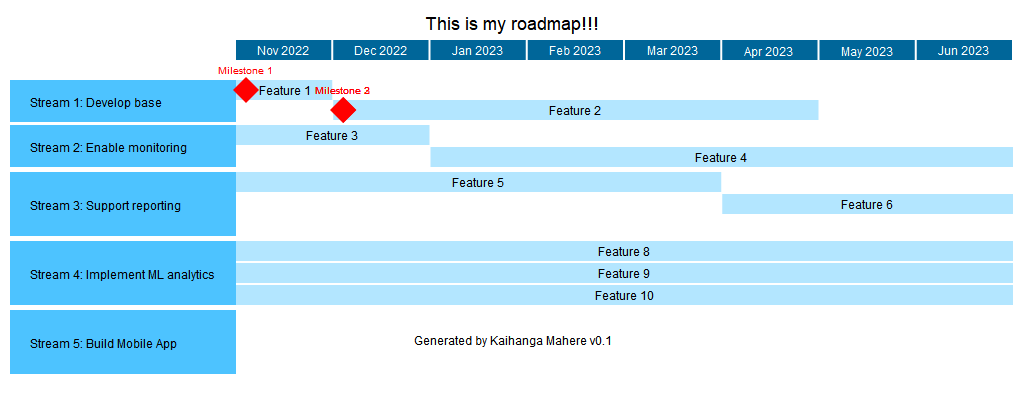
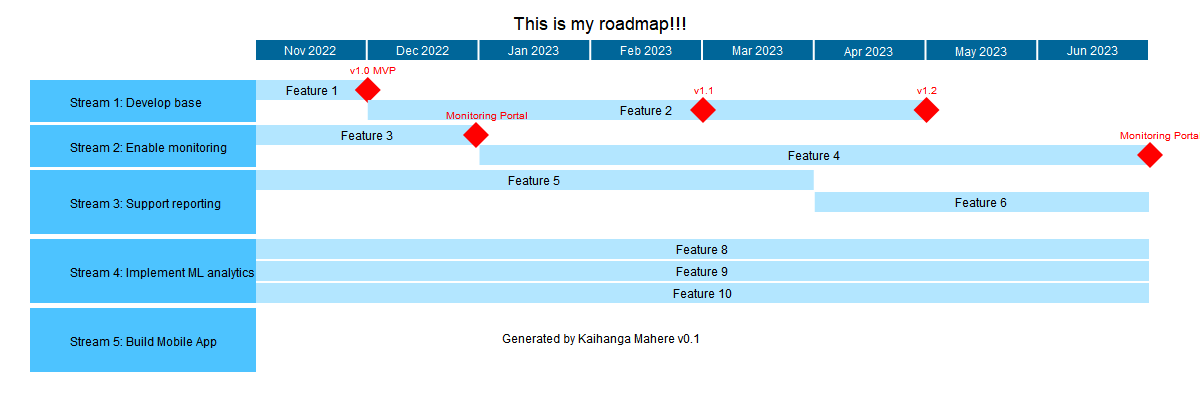
Fixed milestone horizontal position issue

diff --git a/kaihanga.py b/kaihanga.py
@@ -13,35 +13,12 @@
 # You should have received a copy of the GNU General Public License along with
 # this program.  If not, see <http://www.gnu.org/licenses/>.
 
-""" To do
-        * Show milestones
-        * Proporsion task bar according to the start and end date
-        * Display current date marker
-        * Allow task text to wrap around multiple lines, hence auto enlarge the task bar height
-        * Auto expand surface canvas size if the task bar is too long
-        * Implement logging
-        * Implement class methods to allow user to milestone
-        * Custom timeline start date
-        * Support multiple tasks on the same line/lane
-
-
-        Done * Implement class methods to allow user to add task & group.
-        Done * Make timeline 'colour' element optional
-        Done * Make group 'colour' element optional
-        Done * Make timeline 'colour' element optional
-        Done * Option to turn off footer
-        Done * Modularise method lines
-        Done * Display task text on top of bar
-        Done * Display group text as a block
-        Done * Week, Quarter, Half Year, Year timeline mode support
-        Done * Save as PDF
-"""
-
 from datetime import datetime
 from dateutil.relativedelta import relativedelta
 from painter import Painter
 from print_dict import pd
 import json
+import calendar
 from roadmapdict import RoadMapDict
 
 
@@ -263,7 +240,7 @@ class Mahere:
             self.__width
             - max_group_text_width
             - (self.__HSPACER * self.timeline_item)
-            - 40
+            - 100
         )
 
         timeline_y_pos = 40
@@ -277,7 +254,7 @@ class Mahere:
                 (x * timeline_item_width)
                 + max_group_text_width
                 + (self.__HSPACER * x)
-                + 30
+                + 50
             )
 
             # Draw timeline box
@@ -382,13 +359,14 @@ class Mahere:
         group_height = 0
 
         next_group_y_pos = 0
-        group_x_pos = 10
+        group_x_pos = 30
         group_y_pos = 0
         i = 0
         for group_item in task_data.keys():
 
             self.__painter.set_font(self.text_font, 12, self.timeline_text_colour)
 
+            ## Determine group y (vertical) position
             if next_group_y_pos == 0:
                 group_y_pos = group_y_start_pos
             else:
@@ -399,16 +377,17 @@ class Mahere:
             )
             next_group_y_pos = group_y_pos
 
-            ###(4) Set Task
+            ## Set Task
             task_y_pos = group_y_pos
             next_group_y_pos = task_y_pos
 
             j = 0
             for task in self.__roadmap_input[group_item].get("tasks"):
                 task_text = task
-                text_width, text_height = self.__painter.get_text_dimension(task_text)
-                y_pos = task_y_pos + text_height * j + (self.__VSPACER * j)
-                next_group_y_pos = y_pos
+                ## Determine task y (vertical) position
+                _, text_height = self.__painter.get_text_dimension(task_text)
+                next_task_y_pos = task_y_pos + text_height * j + (self.__VSPACER * j)
+                next_group_y_pos = next_task_y_pos
                 text_height = 20
 
                 # Draw task bar
@@ -443,7 +422,7 @@ class Mahere:
                         row_match += 1
 
                 if row_match > 0:
-                    task_box_y_pos = y_pos
+                    task_box_y_pos = next_task_y_pos
                     task_box_height = text_height
                     total_bar_width = task_box_width * row_match + (
                         self.__HSPACER * row_match - 1
@@ -483,6 +462,8 @@ class Mahere:
                     self.__painter.draw_text(text_x_pos, text_y_pos, f"{task_text}")
 
                 # Loop one more time to draw milestones
+                bar_start_x_pos = 0
+                total_bar_width = 0
                 milestones = self.__get_milestones(group_item, task)
 
                 for timeline_index in range(self.timeline_item):
@@ -500,19 +481,42 @@ class Mahere:
                         ) = self.__roadmap_dict.get_timeline_item_coordinates(
                             timeline_index
                         )
-                        if bar_start_x_pos == 0:
-                            bar_start_x_pos = task_box_x_pos
+                        # if bar_start_x_pos == 0:
+                        bar_start_x_pos = task_box_x_pos
 
                         ## Milestone loop
                         for milestone_text in milestones:
                             milestone_date = milestones[milestone_text].get("date")
+                            # Determine timeline item x position
+                            (
+                                _,
+                                _,
+                                timeline_item_width,
+                                _,
+                            ) = self.__roadmap_dict.get_timeline_item_coordinates(
+                                timeline_index
+                            )
                             if self.timeline_mode == self.MONTHLY:
+                                print(
+                                    f"{task_text}-{milestone_text} :{milestone_date.year}=={this_period.year}, {milestone_date.month}=={this_period.month}"
+                                )
                                 if (milestone_date.year == this_period.year) and (
                                     milestone_date.month == this_period.month
                                 ):
+                                    _, last_day = calendar.monthrange(
+                                        this_period.year, this_period.month
+                                    )
+                                    pos_percentage = milestone_date.day / last_day
+
                                     # Draw milestone diamond
                                     self.__painter.draw_diamond(
-                                        bar_start_x_pos - 3, y_pos - 3, 26, 26
+                                        bar_start_x_pos
+                                        + (timeline_item_width * pos_percentage)
+                                        - 8
+                                        - 3,
+                                        next_task_y_pos - 3,
+                                        26,
+                                        26,
                                     )
 
                                     self.__painter.set_font(
@@ -525,8 +529,10 @@ class Mahere:
                                     )
                                     # Draw milestone text
                                     self.__painter.draw_text(
-                                        bar_start_x_pos - (width / 3),
-                                        y_pos - 6,
+                                        bar_start_x_pos
+                                        + (timeline_item_width * pos_percentage)
+                                        - (width / 3),
+                                        next_task_y_pos - 6,
                                         milestone_text,
                                     )
                 j += 1
@@ -742,7 +748,7 @@ class Mahere:
         # with open("output.json", "w") as write_file:
         #     json.dump(self.__roadmap_dict.roadmap_dict, write_file, indent=4)
 
-        pd(self.__roadmap_input)
+        # pd(self.__roadmap_input)
 
         # Save
         self.__painter.save_surface()

diff --git a/my_roadmap.py b/my_roadmap.py
@@ -1,6 +1,6 @@
 from kaihanga import Mahere
 
-my_roadmap = Mahere(1024, 417, "my_roadmap.png")
+my_roadmap = Mahere(1200, 417, "my_roadmap.png")
 
 my_roadmap.title_text = "This is my roadmap!!!"
 # my_roadmap.timeline_fill_colour = "#527a7a"
@@ -14,14 +14,17 @@ my_roadmap.show_footer = True
 group1 = my_roadmap.add_group("Stream 1: Develop base")
 task1 = my_roadmap.add_task(group1, "Feature 1", "2022-10-24", "2022-11-24")
 task2 = my_roadmap.add_task(group1, "Feature 2", "2022-12-24", "2023-04-24")
-my_roadmap.add_milestone(group1, task1, "Milestone 1", "2022-11-24")
-my_roadmap.add_milestone(group1, task2, "Milestone 2", "2023-02-24")
-my_roadmap.add_milestone(group1, task2, "Milestone 3", "2023-04-24")
+my_roadmap.add_milestone(group1, task1, "v1.0 MVP", "2022-11-30")
+my_roadmap.add_milestone(group1, task2, "v1.1", "2023-02-28")
+my_roadmap.add_milestone(group1, task2, "v1.2", "2023-04-30")
 
 
 group2 = my_roadmap.add_group("Stream 2: Enable monitoring")
-my_roadmap.add_task(group2, "Feature 3", "2022-04-24", "2022-12-24")
-my_roadmap.add_task(group2, "Feature 4", "2023-01-24", "2024-12-24")
+task3 = my_roadmap.add_task(group2, "Feature 3", "2022-04-24", "2022-12-24")
+my_roadmap.add_milestone(group2, task3, "Monitoring Portal", "2022-12-30")
+
+task4 = my_roadmap.add_task(group2, "Feature 4", "2023-01-24", "2024-12-24")
+my_roadmap.add_milestone(group2, task4, "Monitoring Portal", "2023-06-30")
 
 group3 = my_roadmap.add_group("Stream 3: Support reporting")
 my_roadmap.add_task(group3, "Feature 5", "2022-10-24", "2023-03-24")
